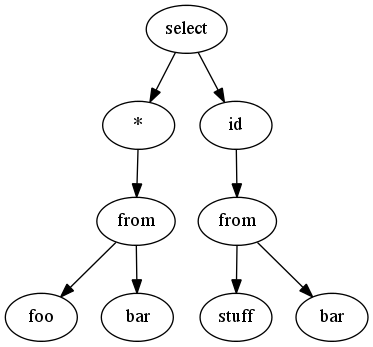
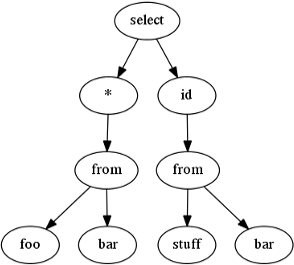
scale down image.

diff --git a/README.md b/README.md
@@ -69,5 +69,3 @@ Example
     True
     
 ![ScreenShot](https://raw.github.com/LyleScott/pyMongoTree/master/docs/mongotree.png)
-)
-    
